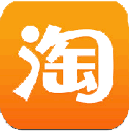
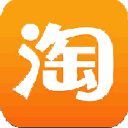
排版修改，图标修改，背景修改

Changed region(s): [[0.0938, 0.1562, 0.9062, 0.8125], [0.0, 0.0, 1.0, 1.0], [0.125, 0.375, 0.2188, 0.4688]]

diff --git a/js/bg/bg.js b/js/bg/bg.js
@@ -2,27 +2,34 @@
 $(function(){
 	var start=0;
 	
-	$('#body').before('<div><canvas id="foreground" width="1920" height="1024">Browser version not supported canvas£¡</canvas></div>');
+	$('#body').before('<div><canvas id="foreground" width="1920" height="900">Browser version not supported canvas£¡</canvas></div>');
 	var fg=document.getElementById("foreground");
 	F=fg.getContext("2d");
-	
+	var timer;
 	var demo=0;var rgb="rgba(22,160,133, 0.1)";
 	document.onclick=function(ev){
 		var mouse=getMousePos(ev);
 		//alert("x:"+mouse.x+"y:"+mouse.y);
 		if(1780<mouse.x&&mouse.x<1820&&780<mouse.y&&mouse.y<820){
+			console.log(start);
 			demo=1;
+
 			if(start==0){
 				begin();
 				rgb="rgba(0, 0, 0, 0.1)"
 				start=1;
+			}else if(start==1){
+				start=0;
+				rgb="rgba(22,160,133, 0.1)"
+				end();
 			}
+			
 		}
 	}
 
-	
+	//旋转的圆
 	var i=0;
-	var timer=setInterval(function(){
+	timer=setInterval(function(){
 		//F.fillText("demo:"+demo,1500,800);
 		if(demo>=1){
 			demo++;
@@ -51,20 +58,29 @@ $(function(){
 		F.beginPath();
 		F.arc(twox,twoy,5,0,2*Math.PI);
 		F.fill();
-		
+		if(i%2==0){
+			rgb="rgba(0,0,0, 0)";
+		}else{
+			rgb="rgba(0,0,0, 0.1)";
+		}
 		
 		F.fillStyle = rgb;
 		F.fillRect(1770, 770, 60, 60);
-	},20);
+	},15);
 
 	function begin(){
-		$('#body').before('<div><canvas id="canvas" width="1920" height="1024">Browser version not supported canvas£¡</canvas></div>');
+		$('#body').before('<div id="cans"><canvas id="canvas" width="1920" height="900">Browser version not supported canvas£¡</canvas></div>');
 		star();
-		document.body.style.overflow="hidden";//隐藏滚动条
+		// document.body.style.overflow="hidden";//隐藏滚动条
 	}
 
 });
-
+var timer;
+function end(){
+	$('#cans').remove();
+	clearTimeout(timer);
+	console.log('11');
+}
 
 function getMousePos(ev){
 	if(ev.pageX || ev.pageY){
@@ -84,44 +100,48 @@ function star(){
 	var time=0;
 
 
-	var timer=setInterval(function(){
-	//渐隐
-	C.fillStyle = "rgba(0, 0, 0, 0.1)";
-	C.fillRect(0, 0, 1920, 1080);
-	bgs.forEach(function(star){
-		C.fillStyle="white";
-		C.fillRect(star.x,star.y,star.size,star.size);
-	});
-				//C.clearRect(0,0,1920,1080);
-				list.forEach(function(one, index, array){
-					if(one[0].y>=(600+one[0].size*30)){
-						one[0].d+=1;
-						if(one[0].d==100){
-							list.splice(index,1);
-							alert("s");
-						}
-						
-					}else{
-						one.forEach(function(o, index, array){
-							C.fillStyle=color[index];
-							C.fillRect(o.x,o.y,o.size,o.size);
-							if(o.y<1100){
-								o.y+=o.s;
-							}
-						});
+	timer=setInterval(function(){
+		//渐隐
+		C.fillStyle = "rgba(0, 0, 0, 0.1)";
+		C.fillRect(0, 0, 1920, 1080);
+		//重绘背景
+		bgs.forEach(function(star){
+			C.fillStyle="white";
+			C.fillRect(star.x,star.y,star.size,star.size);
+		});
+
+		//C.clearRect(0,0,1920,1080);
+		list.forEach(function(one, index, array){
+			if(one[0].y>=(600+one[0].size*30)){
+				one[0].d+=1;
+				// console.log(one[0].d);
+				if(one[0].d==100){
+					list.splice(index,1);
+					// alert("s");
+				}			
+			}else{
+
+				one.forEach(function(o, index, array){
+					//重绘Star
+					C.fillStyle=color[index];
+					C.fillRect(o.x,o.y,o.size,o.size);
+					if(o.y<1100){
+						o.y+=o.s;//下落
+						o.x-=o.s/4;//横漂
 					}
-					
 				});
-				time++;
-				if(time%5==0){
-					list.push(one());
-					time=0;
-				}
-			},20);
-
-
-
+			}
+						
+		});
+		//计时新增star
+		time++;
+		if(time%5==0){
+			list.push(one());
+			time=0;
+		}
+	},20);
 }
+
 
 function bg(){
 	var bgs=new Array();

diff --git a/js/load.js b/js/load.js
@@ -1,17 +1,17 @@
 $(function(){
     		//数据
     		var list=[ 
-    		[ "CUPFOX","CUPFOX.png","www.cupfox.com/","1"], 
-    		[ "echo","echo.jpg","app-echo.com","1"], 
+    		[ "CUPFOX","CUPFOX.png","www.cupfox.com/","1","1"], 
+    		
     		[ "芒果TV","芒果TV.jpg","www.mgtv.com/","1"],
-    		[ "腾讯视频","腾讯视频.jpg","v.qq.com/?ptag=qqbrowser","1"],
-    		[ "淘宝","淘宝.png","taobao.com","1"],
-    		[ "百度","百度.png","baidu.com","1"],
+    		
+    		[ "淘宝","淘宝.png","taobao.com","1" ],
+    		[ "echo","echo.jpg","app-echo.com","1"], 
+            [ "腾讯视频","腾讯视频.jpg","v.qq.com/?ptag=qqbrowser","1"],
     		[ "IfKdy","IfKdy.png","www.ifkdy.com/","1"],
     		[ "a站","a站.png","www.acfun.cn","1"],
     		[ "b站","b站.jpg","bilibili.com","1"],
-    		[ "百度云","百度云.jpg","pan.baidu.com/disk/home#list/path=%2F","1"],
-    		[ "豆瓣","豆瓣.jpg","www.douban.com","1"],
+    		[ "豆瓣","豆瓣.png","www.douban.com","1"],
     		[ "百度传课","百度传课.png","chuanke.com","1"],
     		[ "网易云课堂","网易云课堂.png","study.163.com","1"],
     		[ "runoob","runoob.jpg","runoob.com","1"],
@@ -20,14 +20,21 @@ $(function(){
     		[ "Jquery插件","jquery.png","jq22.com","1"],
     		[ "知乎","知乎.png","zhihu.com","1"],
     		[ "素材中国","素材中国.jpg","sccnn.com","1"],
-    		[ "爱奇艺","爱奇艺.jpg","iqiyi.com","1"],
+    		
     		[ "Neets","neets.png","neets.cc","1"],
             [ "腾讯课堂","腾讯课堂.jpg","ke.qq.com/","1"],
-            [ "百度云","百度云.png","cloud.baidu.com/","1"],
+            
             [ "慕课网","慕课网.jpg","imooc.com/","1"],
             [ "牛客网","牛客网.jpg","www.nowcoder.com/3002767","1"],
             [ "leetcode","leetcode.png","leetcode.com/","1"],
             [ "github","github.png","github.com/","1"],
+
+            
+            [ "百度","百度.png","baidu.com","1","1"],
+            
+            [ "百度云","百度云.jpg","pan.baidu.com/disk/home#list/path=%2F","1"],
+            [ "爱奇艺","爱奇艺.jpg","iqiyi.com","1"],
+            [ "百度云","百度云.png","cloud.baidu.com/","1"],
 
             [ "贴吧","贴吧.png","tieba.baidu.com","1"],
             [ "cc1","cc.jpg","cclolcc.com","1"], 
@@ -47,7 +54,7 @@ $(function(){
             //初始化页数
             var pages=1;var maxpage=list.length;
             //每页加载数量
-            var num=27;
+            var num=24;
 
             //根据list添加各个网站的按钮到页面中
             add(pages,maxpage,list,num);
@@ -95,8 +102,13 @@ function add(p,m,list,n){
             }else{
                 http='http://';
             }
+            if(list[i][4]=="1"){
+                d_class='img_backC';
+            }else{
+                d_class="";
+            }
             $('#main').append('<a href="'+http+list[i][2]+
-                '" target="_blank"><div class="dh"><div class="img"><img src="img/导航/'+list[i][1]+'" /></div><div class="name"><p>'+
+                '" target="_blank"><div class="dh"><div class="img"><img class="'+d_class+'" src="img/导航/'+list[i][1]+'" /></div><div class="name"><p>'+
                 list[i][0]+'</p></div</div></a>');
         }
     }

diff --git a/css/导航.css b/css/导航.css
@@ -1,11 +1,10 @@
-
-
-body{
+body{
 	background: #16a085;
 	background-repeat:   no-repeat;
 	background-attachment: fixed;
-	min-width: 1920px;
-	
+	min-width: 1200px;
+	width: 100%;
+	background-image: url(../img/bg/T8.jpg);
 }
 p{
 	color:white;
@@ -13,13 +12,54 @@ p{
 li{
 	float: left;
 	font-size: 20px;
-	
 }
 
+/*布局*/
+#head{
+	text-align: center;
+	font-size: 30px;
+	height: 100px;
+	background: #08251f;
+}
+#head div{
+	/*float: left;*/
+}
+#main{
+	clear: both;
+	width: 100%;
+	max-width:1600px;
+	min-width:1600px;
+	height: 600px;
+	/*padding: 0 45px ;*/
+	margin: 0 auto;
+}
+#main a{
+	color:black;
+	text-decoration-line: none;
+}
+.after{
+	width: 100%;
+	height: 100px;
+	text-align: center;
+}
+
+#footer{
+	text-align: center;
+	border-top: 1px solid #84aba3;
+	background: #84aba3;
+	height: 190px;
+}
+
+
+
+
+
+	
 .dh{
 	float: left;
 	text-align: center;
-	margin:30px;
+	margin:30px 30px 0px 30px;
+
 }
 .dh p{
 	font-size: 20px;
@@ -33,6 +73,10 @@ li{
 	width: 70%;
 	height:70%;
 	border-radius:5px 15px 20px 25px;
+
+}
+.img_backC{
+	background:white;
 }
 .img img:hover{
 	width: 75%;
@@ -89,11 +133,6 @@ li{
 }
 
 
-.after{
-	width: 100%;
-	height: 150px;
-	text-align: center;
-}
 .pages-left,.pages-right{
 	height: 45px;
 	line-height: 30px;
@@ -114,24 +153,4 @@ li{
 }
 
 
-#main{
-	clear: both;
-	width: 100%;
-	height: 650px;
-	padding-left: 45px;
-}
-#main a{
-	color:black;
-	text-decoration-line: none;
-}
 
-#head{
-	text-align: center;font-size: 30px;
-}
-#head div{
-	//float: left;
-}
-#footer{
-	text-align: center;
-	border-top: 1px solid white;
-}

diff --git a/index.html b/index.html
@@ -60,10 +60,10 @@
     <div class="pages-left glyphicon glyphicon-arrow-left btn btn-default   hide"></div>
     <div class="pages-right glyphicon glyphicon-arrow-right btn btn-default"></div>
   </div>
-  <div id="footer">
+  <!-- <div id="footer">
    <p>The code is the navigation page I wrote with html+css+js</p>
    By Zhangyang
- </div>
+ </div> -->
 </div>
 </body>
 </html>

diff --git a/js/bg/bg.css b/js/bg/bg.css
@@ -4,7 +4,8 @@
 	z-index: -2;
 }
 #foreground{
-	border: solid 1px black;display: block;margin: -30px -10px;
+	/*border: solid 1px black;*/
+	display: block;margin: -30px -10px;
 	position: absolute;
 	z-index: -1;
 }
